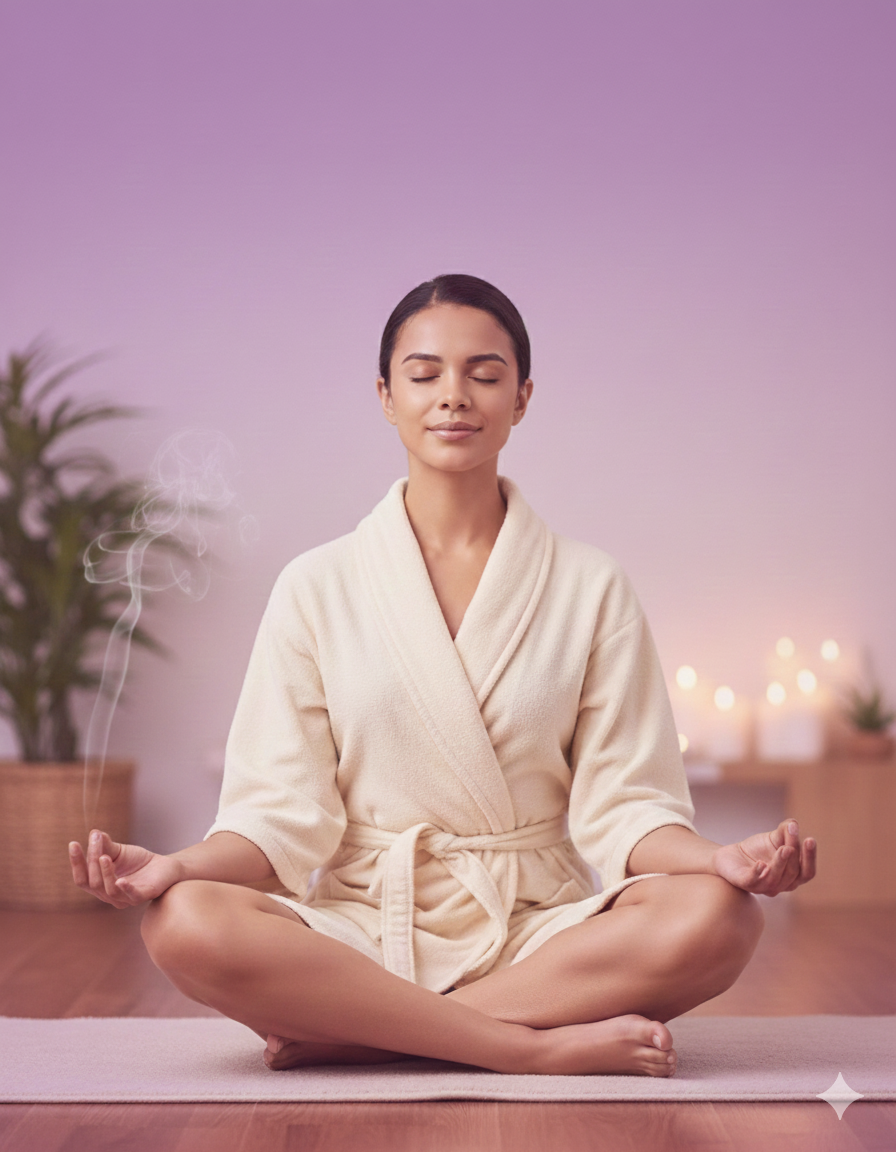
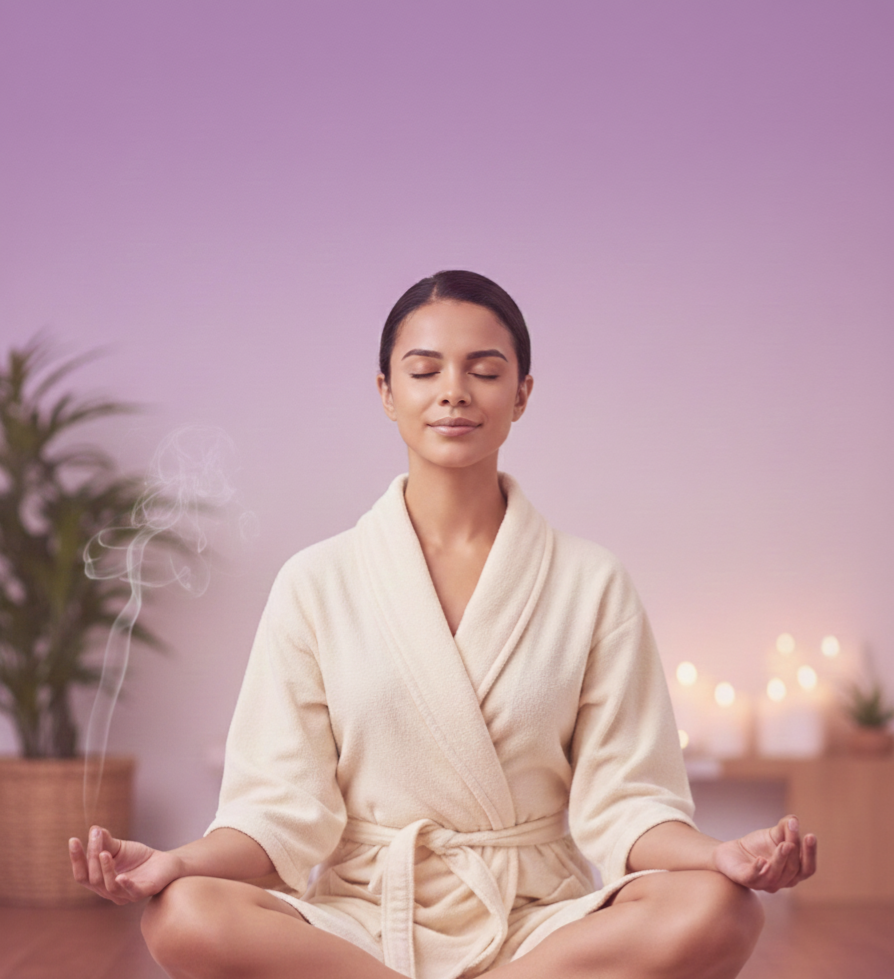
realizando modificaçoes e teste final. resolvendo erro de alteração de senha, adiccionando nova imagem da proprietária

diff --git a/public/sw.js b/public/sw.js
@@ -1,1 +1,1 @@
-if(!self.define){let e,a={};const s=(s,i)=>(s=new URL(s+".js",i).href,a[s]||new Promise(a=>{if("document"in self){const e=document.createElement("script");e.src=s,e.onload=a,document.head.appendChild(e)}else e=s,importScripts(s),a()}).then(()=>{let e=a[s];if(!e)throw new Error(`Module ${s} didn’t register its module`);return e}));self.define=(i,t)=>{const n=e||("document"in self?document.currentScript.src:"")||location.href;if(a[n])return;let c={};const d=e=>s(e,n),r={module:{uri:n},exports:c,require:d};a[n]=Promise.all(i.map(e=>r[e]||d(e))).then(e=>(t(...e),c))}}define(["./workbox-4754cb34"],function(e){"use strict";importScripts(),self.skipWaiting(),e.clientsClaim(),e.precacheAndRoute([{url:"/_next/app-build-manifest.json",revision:"c13a197ccf5857f193eedd27bf911507"},{url:"/_next/static/MhCtH397zzlHBhpDAOXh4/_buildManifest.js",revision:"159272cd806ed443be8412ca40dc91de"},{url:"/_next/static/MhCtH397zzlHBhpDAOXh4/_ssgManifest.js",revision:"b6652df95db52feb4daf4eca35380933"},{url:"/_next/static/chunks/1255-5e80850ee659f6b0.js",revision:"5e80850ee659f6b0"},{url:"/_next/static/chunks/1356-55692d5ef6a323df.js",revision:"55692d5ef6a323df"},{url:"/_next/static/chunks/1646.a93085a0445ba909.js",revision:"a93085a0445ba909"},{url:"/_next/static/chunks/164f4fb6-f06509109bcf80d7.js",revision:"f06509109bcf80d7"},{url:"/_next/static/chunks/2619-04bc32f026a0d946.js",revision:"04bc32f026a0d946"},{url:"/_next/static/chunks/2931.ddde249eba11921d.js",revision:"ddde249eba11921d"},{url:"/_next/static/chunks/2f0b94e8-3186a98eb4c9012b.js",revision:"3186a98eb4c9012b"},{url:"/_next/static/chunks/3933-f5cd1a4f4d45b01a.js",revision:"f5cd1a4f4d45b01a"},{url:"/_next/static/chunks/4008-d6845ab2310007a2.js",revision:"d6845ab2310007a2"},{url:"/_next/static/chunks/4164-0ea4f2df0853c649.js",revision:"0ea4f2df0853c649"},{url:"/_next/static/chunks/4199.52b11f53afb6f733.js",revision:"52b11f53afb6f733"},{url:"/_next/static/chunks/4778-2ff1b30635d23aa2.js",revision:"2ff1b30635d23aa2"},{url:"/_next/static/chunks/4bd1b696-100b9d70ed4e49c1.js",revision:"100b9d70ed4e49c1"},{url:"/_next/static/chunks/5139.e4ff9cc3669129ed.js",revision:"e4ff9cc3669129ed"},{url:"/_next/static/chunks/522-2844e397056035eb.js",revision:"2844e397056035eb"},{url:"/_next/static/chunks/5360-554a84ff6188211c.js",revision:"554a84ff6188211c"},{url:"/_next/static/chunks/9672-399714c442f524b8.js",revision:"399714c442f524b8"},{url:"/_next/static/chunks/9903-9d14534ac9c95544.js",revision:"9d14534ac9c95544"},{url:"/_next/static/chunks/ad2866b8.e13a3cf75ccf0eb8.js",revision:"e13a3cf75ccf0eb8"},{url:"/_next/static/chunks/app/_not-found/page-c4847d5ba2a4f439.js",revision:"c4847d5ba2a4f439"},{url:"/_next/static/chunks/app/admin/availability/page-25e5570bae1fbf79.js",revision:"25e5570bae1fbf79"},{url:"/_next/static/chunks/app/admin/change-password/page-57dbf8209994de9c.js",revision:"57dbf8209994de9c"},{url:"/_next/static/chunks/app/admin/edit/%5Bid%5D/page-2002ceb5a48b53da.js",revision:"2002ceb5a48b53da"},{url:"/_next/static/chunks/app/admin/layout-099b3ede990bbeaa.js",revision:"099b3ede990bbeaa"},{url:"/_next/static/chunks/app/admin/page-8adc74f0ad276006.js",revision:"8adc74f0ad276006"},{url:"/_next/static/chunks/app/admin/services/%5Bid%5D/edit/page-da9c6d8467f4b3c3.js",revision:"da9c6d8467f4b3c3"},{url:"/_next/static/chunks/app/admin/services/new/page-dab23e2805a178d0.js",revision:"dab23e2805a178d0"},{url:"/_next/static/chunks/app/admin/services/page-b04aa6ea83d60e29.js",revision:"b04aa6ea83d60e29"},{url:"/_next/static/chunks/app/admin/settings/page-8e8f0d70f796cb6b.js",revision:"8e8f0d70f796cb6b"},{url:"/_next/static/chunks/app/admin/testimonials/page-acbc24e09d3f1af7.js",revision:"acbc24e09d3f1af7"},{url:"/_next/static/chunks/app/api/auth/change-password/route-ad076aa6d1b53f82.js",revision:"ad076aa6d1b53f82"},{url:"/_next/static/chunks/app/api/auth/login/route-ad076aa6d1b53f82.js",revision:"ad076aa6d1b53f82"},{url:"/_next/static/chunks/app/api/auth/logout/route-ad076aa6d1b53f82.js",revision:"ad076aa6d1b53f82"},{url:"/_next/static/chunks/app/api/auth/me/route-ad076aa6d1b53f82.js",revision:"ad076aa6d1b53f82"},{url:"/_next/static/chunks/app/api/availability-times/route-ad076aa6d1b53f82.js",revision:"ad076aa6d1b53f82"},{url:"/_next/static/chunks/app/api/availability/route-ad076aa6d1b53f82.js",revision:"ad076aa6d1b53f82"},{url:"/_next/static/chunks/app/api/bookings/%5Bid%5D/status/route-ad076aa6d1b53f82.js",revision:"ad076aa6d1b53f82"},{url:"/_next/static/chunks/app/api/bookings/counts/route-ad076aa6d1b53f82.js",revision:"ad076aa6d1b53f82"},{url:"/_next/static/chunks/app/api/bookings/route-ad076aa6d1b53f82.js",revision:"ad076aa6d1b53f82"},{url:"/_next/static/chunks/app/api/change-password/route-ad076aa6d1b53f82.js",revision:"ad076aa6d1b53f82"},{url:"/_next/static/chunks/app/api/feedback/route-ad076aa6d1b53f82.js",revision:"ad076aa6d1b53f82"},{url:"/_next/static/chunks/app/api/services/%5Bid%5D/restore/route-ad076aa6d1b53f82.js",revision:"ad076aa6d1b53f82"},{url:"/_next/static/chunks/app/api/services/%5Bid%5D/route-ad076aa6d1b53f82.js",revision:"ad076aa6d1b53f82"},{url:"/_next/static/chunks/app/api/services/deleted/route-ad076aa6d1b53f82.js",revision:"ad076aa6d1b53f82"},{url:"/_next/static/chunks/app/api/services/route-ad076aa6d1b53f82.js",revision:"ad076aa6d1b53f82"},{url:"/_next/static/chunks/app/api/settings/route-ad076aa6d1b53f82.js",revision:"ad076aa6d1b53f82"},{url:"/_next/static/chunks/app/api/testimonials/%5Bid%5D/route-ad076aa6d1b53f82.js",revision:"ad076aa6d1b53f82"},{url:"/_next/static/chunks/app/api/testimonials/admin/%5Bid%5D/approve/route-ad076aa6d1b53f82.js",revision:"ad076aa6d1b53f82"},{url:"/_next/static/chunks/app/api/testimonials/admin/%5Bid%5D/delete/route-ad076aa6d1b53f82.js",revision:"ad076aa6d1b53f82"},{url:"/_next/static/chunks/app/api/testimonials/admin/route-ad076aa6d1b53f82.js",revision:"ad076aa6d1b53f82"},{url:"/_next/static/chunks/app/api/testimonials/approve/%5Bid%5D/route-ad076aa6d1b53f82.js",revision:"ad076aa6d1b53f82"},{url:"/_next/static/chunks/app/api/testimonials/client/route-ad076aa6d1b53f82.js",revision:"ad076aa6d1b53f82"},{url:"/_next/static/chunks/app/api/testimonials/delete/%5Bid%5D/route-ad076aa6d1b53f82.js",revision:"ad076aa6d1b53f82"},{url:"/_next/static/chunks/app/api/testimonials/route-ad076aa6d1b53f82.js",revision:"ad076aa6d1b53f82"},{url:"/_next/static/chunks/app/book/page-a33549a435e036d8.js",revision:"a33549a435e036d8"},{url:"/_next/static/chunks/app/layout-4a8dff59ccafbb38.js",revision:"4a8dff59ccafbb38"},{url:"/_next/static/chunks/app/loading-5b342cfccde92f5f.js",revision:"5b342cfccde92f5f"},{url:"/_next/static/chunks/app/login/page-f9e280b1574054a3.js",revision:"f9e280b1574054a3"},{url:"/_next/static/chunks/app/page-c9bd2a67401941e7.js",revision:"c9bd2a67401941e7"},{url:"/_next/static/chunks/bc98253f.d6fc8a0138855acd.js",revision:"d6fc8a0138855acd"},{url:"/_next/static/chunks/framework-32492dd9c4fc5870.js",revision:"32492dd9c4fc5870"},{url:"/_next/static/chunks/main-5faed92e09951081.js",revision:"5faed92e09951081"},{url:"/_next/static/chunks/main-app-ac763f0b3bf9b967.js",revision:"ac763f0b3bf9b967"},{url:"/_next/static/chunks/pages/_app-e8b861c87f6f033c.js",revision:"e8b861c87f6f033c"},{url:"/_next/static/chunks/pages/_error-c8f84f7bd11d43d4.js",revision:"c8f84f7bd11d43d4"},{url:"/_next/static/chunks/polyfills-42372ed130431b0a.js",revision:"846118c33b2c0e922d7b3a7676f81f6f"},{url:"/_next/static/chunks/webpack-ec748dc7ebd57297.js",revision:"ec748dc7ebd57297"},{url:"/_next/static/css/7057b35d5a95711c.css",revision:"7057b35d5a95711c"},{url:"/_next/static/css/969afbfddcdb3e8d.css",revision:"969afbfddcdb3e8d"},{url:"/_next/static/media/7b0b24f36b1a6d0b-s.p.woff2",revision:"98ccc2b7f18991a5126a91ac56fbb1fc"},{url:"/_next/static/media/96ad956ad403f1f4-s.woff2",revision:"99e350a8fab2f9617e9d87b92fdc0feb"},{url:"/_next/static/media/98848575513c9742-s.woff2",revision:"e2b64ddcb351dbe7397e0da426a8c8d6"},{url:"/_next/static/media/d2994fae620620ce-s.woff2",revision:"df52ed7fba6249327048e56c2014e179"},{url:"/_next/static/media/d5a081ee1692b14e-s.p.woff2",revision:"3dcc58561560977950005014d082f161"},{url:"/borboleta.png",revision:"f430776b497180091d8ca8fcd94e84ea"},{url:"/file.svg",revision:"d09f95206c3fa0bb9bd9fefabfd0ea71"},{url:"/foto1.jpeg",revision:"af78ab116ddeaaba292a8c3f2085e04f"},{url:"/foto2.jpeg",revision:"95cd157fde51442249972f2c1b0daf97"},{url:"/foto3.jpeg",revision:"2490a3282e8d3943402611054960fa48"},{url:"/foto4.jpeg",revision:"c284401d47f6a986c2e9b7838ec21419"},{url:"/globe.svg",revision:"2aaafa6a49b6563925fe440891e32717"},{url:"/icon-192.png",revision:"0eca19238d64e1a3b2b80f87f94fc741"},{url:"/icon-512.png",revision:"06863cabe4c5e464b7b875a250c5071e"},{url:"/img1.png",revision:"e636a8a6ed0dd1d20a1fc53d2edd655e"},{url:"/img2.png",revision:"607f79817377630f550168d3cac2fe40"},{url:"/img3.png",revision:"c8bf36c801e1dd388c58c973a6ac4492"},{url:"/logo-balsamo.png",revision:"69d1263097d4bff305f64cd87c80d9e4"},{url:"/manifest.json",revision:"23a52be9cc13d3b21804864b1fb26ae9"},{url:"/next.svg",revision:"8e061864f388b47f33a1c3780831193e"},{url:"/proprietaria.jpg",revision:"eec1ea9744981deaae5737924ebcb758"},{url:"/proprietaria2.jpg",revision:"649260f5ed9a66f7d53351edbb71443f"},{url:"/service-worker-disabled.js",revision:"417d11533157a4fdf8e042d07270220c"},{url:"/vercel.svg",revision:"c0af2f507b369b085b35ef4bbe3bcf1e"},{url:"/video1.mp4",revision:"eacaf5db507edff27e15f20652687f1d"},{url:"/video2.mp4",revision:"8699624ffdfc8d7d764fabd83e0230f8"},{url:"/video3.mp4",revision:"51239660f98a64fca7303838a71585b6"},{url:"/window.svg",revision:"a2760511c65806022ad20adf74370ff3"}],{ignoreURLParametersMatching:[]}),e.cleanupOutdatedCaches(),e.registerRoute("/",new e.NetworkFirst({cacheName:"start-url",plugins:[{cacheWillUpdate:async({request:e,response:a,event:s,state:i})=>a&&"opaqueredirect"===a.type?new Response(a.body,{status:200,statusText:"OK",headers:a.headers}):a}]}),"GET"),e.registerRoute(/^https:\/\/fonts\.(?:gstatic)\.com\/.*/i,new e.CacheFirst({cacheName:"google-fonts-webfonts",plugins:[new e.ExpirationPlugin({maxEntries:4,maxAgeSeconds:31536e3})]}),"GET"),e.registerRoute(/^https:\/\/fonts\.(?:googleapis)\.com\/.*/i,new e.StaleWhileRevalidate({cacheName:"google-fonts-stylesheets",plugins:[new e.ExpirationPlugin({maxEntries:4,maxAgeSeconds:604800})]}),"GET"),e.registerRoute(/\.(?:eot|otf|ttc|ttf|woff|woff2|font.css)$/i,new e.StaleWhileRevalidate({cacheName:"static-font-assets",plugins:[new e.ExpirationPlugin({maxEntries:4,maxAgeSeconds:604800})]}),"GET"),e.registerRoute(/\.(?:jpg|jpeg|gif|png|svg|ico|webp)$/i,new e.StaleWhileRevalidate({cacheName:"static-image-assets",plugins:[new e.ExpirationPlugin({maxEntries:64,maxAgeSeconds:86400})]}),"GET"),e.registerRoute(/\/_next\/image\?url=.+$/i,new e.StaleWhileRevalidate({cacheName:"next-image",plugins:[new e.ExpirationPlugin({maxEntries:64,maxAgeSeconds:86400})]}),"GET"),e.registerRoute(/\.(?:mp3|wav|ogg)$/i,new e.CacheFirst({cacheName:"static-audio-assets",plugins:[new e.RangeRequestsPlugin,new e.ExpirationPlugin({maxEntries:32,maxAgeSeconds:86400})]}),"GET"),e.registerRoute(/\.(?:mp4)$/i,new e.CacheFirst({cacheName:"static-video-assets",plugins:[new e.RangeRequestsPlugin,new e.ExpirationPlugin({maxEntries:32,maxAgeSeconds:86400})]}),"GET"),e.registerRoute(/\.(?:js)$/i,new e.StaleWhileRevalidate({cacheName:"static-js-assets",plugins:[new e.ExpirationPlugin({maxEntries:32,maxAgeSeconds:86400})]}),"GET"),e.registerRoute(/\.(?:css|less)$/i,new e.StaleWhileRevalidate({cacheName:"static-style-assets",plugins:[new e.ExpirationPlugin({maxEntries:32,maxAgeSeconds:86400})]}),"GET"),e.registerRoute(/\/_next\/data\/.+\/.+\.json$/i,new e.StaleWhileRevalidate({cacheName:"next-data",plugins:[new e.ExpirationPlugin({maxEntries:32,maxAgeSeconds:86400})]}),"GET"),e.registerRoute(/\.(?:json|xml|csv)$/i,new e.NetworkFirst({cacheName:"static-data-assets",plugins:[new e.ExpirationPlugin({maxEntries:32,maxAgeSeconds:86400})]}),"GET"),e.registerRoute(({url:e})=>{if(!(self.origin===e.origin))return!1;const a=e.pathname;return!a.startsWith("/api/auth/")&&!!a.startsWith("/api/")},new e.NetworkFirst({cacheName:"apis",networkTimeoutSeconds:10,plugins:[new e.ExpirationPlugin({maxEntries:16,maxAgeSeconds:86400})]}),"GET"),e.registerRoute(({url:e})=>{if(!(self.origin===e.origin))return!1;return!e.pathname.startsWith("/api/")},new e.NetworkFirst({cacheName:"others",networkTimeoutSeconds:10,plugins:[new e.ExpirationPlugin({maxEntries:32,maxAgeSeconds:86400})]}),"GET"),e.registerRoute(({url:e})=>!(self.origin===e.origin),new e.NetworkFirst({cacheName:"cross-origin",networkTimeoutSeconds:10,plugins:[new e.ExpirationPlugin({maxEntries:32,maxAgeSeconds:3600})]}),"GET")});
+if(!self.define){let e,s={};const a=(a,i)=>(a=new URL(a+".js",i).href,s[a]||new Promise(s=>{if("document"in self){const e=document.createElement("script");e.src=a,e.onload=s,document.head.appendChild(e)}else e=a,importScripts(a),s()}).then(()=>{let e=s[a];if(!e)throw new Error(`Module ${a} didn’t register its module`);return e}));self.define=(i,n)=>{const t=e||("document"in self?document.currentScript.src:"")||location.href;if(s[t])return;let c={};const f=e=>a(e,t),r={module:{uri:t},exports:c,require:f};s[t]=Promise.all(i.map(e=>r[e]||f(e))).then(e=>(n(...e),c))}}define(["./workbox-4754cb34"],function(e){"use strict";importScripts(),self.skipWaiting(),e.clientsClaim(),e.precacheAndRoute([{url:"/_next/app-build-manifest.json",revision:"2b09b3ab8b08b62286f05246032e7529"},{url:"/_next/static/chunks/1255-5e80850ee659f6b0.js",revision:"5e80850ee659f6b0"},{url:"/_next/static/chunks/1356-55692d5ef6a323df.js",revision:"55692d5ef6a323df"},{url:"/_next/static/chunks/1646.a93085a0445ba909.js",revision:"a93085a0445ba909"},{url:"/_next/static/chunks/164f4fb6-f06509109bcf80d7.js",revision:"f06509109bcf80d7"},{url:"/_next/static/chunks/2619-04bc32f026a0d946.js",revision:"04bc32f026a0d946"},{url:"/_next/static/chunks/2931.ddde249eba11921d.js",revision:"ddde249eba11921d"},{url:"/_next/static/chunks/2966-7ff7d47905257a57.js",revision:"7ff7d47905257a57"},{url:"/_next/static/chunks/2f0b94e8-3186a98eb4c9012b.js",revision:"3186a98eb4c9012b"},{url:"/_next/static/chunks/3013-485a594676a27681.js",revision:"485a594676a27681"},{url:"/_next/static/chunks/3349-fa67f4cce9a70888.js",revision:"fa67f4cce9a70888"},{url:"/_next/static/chunks/3596-571bf2e036680545.js",revision:"571bf2e036680545"},{url:"/_next/static/chunks/3955-a81eae04e5539803.js",revision:"a81eae04e5539803"},{url:"/_next/static/chunks/4164-0ea4f2df0853c649.js",revision:"0ea4f2df0853c649"},{url:"/_next/static/chunks/4199.52b11f53afb6f733.js",revision:"52b11f53afb6f733"},{url:"/_next/static/chunks/4bd1b696-100b9d70ed4e49c1.js",revision:"100b9d70ed4e49c1"},{url:"/_next/static/chunks/5139.e4ff9cc3669129ed.js",revision:"e4ff9cc3669129ed"},{url:"/_next/static/chunks/5326-a85bed830b406494.js",revision:"a85bed830b406494"},{url:"/_next/static/chunks/6045-630ed5d85af8d7e0.js",revision:"630ed5d85af8d7e0"},{url:"/_next/static/chunks/7198-d6fccf740b7e3a83.js",revision:"d6fccf740b7e3a83"},{url:"/_next/static/chunks/8805-7e6b53be08fc9e0a.js",revision:"7e6b53be08fc9e0a"},{url:"/_next/static/chunks/8901-e28a892d1abf1fc1.js",revision:"e28a892d1abf1fc1"},{url:"/_next/static/chunks/ad2866b8.e13a3cf75ccf0eb8.js",revision:"e13a3cf75ccf0eb8"},{url:"/_next/static/chunks/app/_not-found/page-858673ea14c8364b.js",revision:"858673ea14c8364b"},{url:"/_next/static/chunks/app/admin/availability/page-68b6145870e32919.js",revision:"68b6145870e32919"},{url:"/_next/static/chunks/app/admin/change-password/page-633eb9e3e90e90e2.js",revision:"633eb9e3e90e90e2"},{url:"/_next/static/chunks/app/admin/edit/%5Bid%5D/page-e20c8fb46eec354f.js",revision:"e20c8fb46eec354f"},{url:"/_next/static/chunks/app/admin/layout-09f5b4b566964ce5.js",revision:"09f5b4b566964ce5"},{url:"/_next/static/chunks/app/admin/page-78f5a8c3e941ecea.js",revision:"78f5a8c3e941ecea"},{url:"/_next/static/chunks/app/admin/reports/page-9cb714f51226ef14.js",revision:"9cb714f51226ef14"},{url:"/_next/static/chunks/app/admin/services/%5Bid%5D/edit/page-73265d8312d6a3c2.js",revision:"73265d8312d6a3c2"},{url:"/_next/static/chunks/app/admin/services/new/page-7af7f8ddff58c515.js",revision:"7af7f8ddff58c515"},{url:"/_next/static/chunks/app/admin/services/page-4807c950f2bbf68b.js",revision:"4807c950f2bbf68b"},{url:"/_next/static/chunks/app/admin/settings/page-44c4a25138967adf.js",revision:"44c4a25138967adf"},{url:"/_next/static/chunks/app/admin/testimonials/page-a31a59fbf9b755e7.js",revision:"a31a59fbf9b755e7"},{url:"/_next/static/chunks/app/api/auth/change-password/route-be7d0825b7a0f15f.js",revision:"be7d0825b7a0f15f"},{url:"/_next/static/chunks/app/api/auth/login/route-be7d0825b7a0f15f.js",revision:"be7d0825b7a0f15f"},{url:"/_next/static/chunks/app/api/auth/logout/route-be7d0825b7a0f15f.js",revision:"be7d0825b7a0f15f"},{url:"/_next/static/chunks/app/api/auth/me/route-be7d0825b7a0f15f.js",revision:"be7d0825b7a0f15f"},{url:"/_next/static/chunks/app/api/availability-times/route-be7d0825b7a0f15f.js",revision:"be7d0825b7a0f15f"},{url:"/_next/static/chunks/app/api/availability/route-be7d0825b7a0f15f.js",revision:"be7d0825b7a0f15f"},{url:"/_next/static/chunks/app/api/bookings/%5Bid%5D/route-be7d0825b7a0f15f.js",revision:"be7d0825b7a0f15f"},{url:"/_next/static/chunks/app/api/bookings/%5Bid%5D/status/route-be7d0825b7a0f15f.js",revision:"be7d0825b7a0f15f"},{url:"/_next/static/chunks/app/api/bookings/counts/route-be7d0825b7a0f15f.js",revision:"be7d0825b7a0f15f"},{url:"/_next/static/chunks/app/api/bookings/route-be7d0825b7a0f15f.js",revision:"be7d0825b7a0f15f"},{url:"/_next/static/chunks/app/api/change-password/route-be7d0825b7a0f15f.js",revision:"be7d0825b7a0f15f"},{url:"/_next/static/chunks/app/api/feedback/route-be7d0825b7a0f15f.js",revision:"be7d0825b7a0f15f"},{url:"/_next/static/chunks/app/api/reports/route-be7d0825b7a0f15f.js",revision:"be7d0825b7a0f15f"},{url:"/_next/static/chunks/app/api/services/%5Bid%5D/restore/route-be7d0825b7a0f15f.js",revision:"be7d0825b7a0f15f"},{url:"/_next/static/chunks/app/api/services/%5Bid%5D/route-be7d0825b7a0f15f.js",revision:"be7d0825b7a0f15f"},{url:"/_next/static/chunks/app/api/services/deleted/route-be7d0825b7a0f15f.js",revision:"be7d0825b7a0f15f"},{url:"/_next/static/chunks/app/api/services/route-be7d0825b7a0f15f.js",revision:"be7d0825b7a0f15f"},{url:"/_next/static/chunks/app/api/settings/route-be7d0825b7a0f15f.js",revision:"be7d0825b7a0f15f"},{url:"/_next/static/chunks/app/api/testimonials/%5Bid%5D/route-be7d0825b7a0f15f.js",revision:"be7d0825b7a0f15f"},{url:"/_next/static/chunks/app/api/testimonials/admin/%5Bid%5D/approve/route-be7d0825b7a0f15f.js",revision:"be7d0825b7a0f15f"},{url:"/_next/static/chunks/app/api/testimonials/admin/%5Bid%5D/delete/route-be7d0825b7a0f15f.js",revision:"be7d0825b7a0f15f"},{url:"/_next/static/chunks/app/api/testimonials/admin/route-be7d0825b7a0f15f.js",revision:"be7d0825b7a0f15f"},{url:"/_next/static/chunks/app/api/testimonials/approve/%5Bid%5D/route-be7d0825b7a0f15f.js",revision:"be7d0825b7a0f15f"},{url:"/_next/static/chunks/app/api/testimonials/client/route-be7d0825b7a0f15f.js",revision:"be7d0825b7a0f15f"},{url:"/_next/static/chunks/app/api/testimonials/delete/%5Bid%5D/route-be7d0825b7a0f15f.js",revision:"be7d0825b7a0f15f"},{url:"/_next/static/chunks/app/api/testimonials/route-be7d0825b7a0f15f.js",revision:"be7d0825b7a0f15f"},{url:"/_next/static/chunks/app/book/page-da05587363794a14.js",revision:"da05587363794a14"},{url:"/_next/static/chunks/app/layout-1448b112ebea3d40.js",revision:"1448b112ebea3d40"},{url:"/_next/static/chunks/app/loading-1e9f81dee6f77a44.js",revision:"1e9f81dee6f77a44"},{url:"/_next/static/chunks/app/login/page-2663e17a49248301.js",revision:"2663e17a49248301"},{url:"/_next/static/chunks/app/page-b6e64bf7dda218b7.js",revision:"b6e64bf7dda218b7"},{url:"/_next/static/chunks/bc98253f.d6fc8a0138855acd.js",revision:"d6fc8a0138855acd"},{url:"/_next/static/chunks/framework-32492dd9c4fc5870.js",revision:"32492dd9c4fc5870"},{url:"/_next/static/chunks/main-5faed92e09951081.js",revision:"5faed92e09951081"},{url:"/_next/static/chunks/main-app-6e8135bc63bbe69c.js",revision:"6e8135bc63bbe69c"},{url:"/_next/static/chunks/pages/_app-e8b861c87f6f033c.js",revision:"e8b861c87f6f033c"},{url:"/_next/static/chunks/pages/_error-c8f84f7bd11d43d4.js",revision:"c8f84f7bd11d43d4"},{url:"/_next/static/chunks/polyfills-42372ed130431b0a.js",revision:"846118c33b2c0e922d7b3a7676f81f6f"},{url:"/_next/static/chunks/webpack-ec748dc7ebd57297.js",revision:"ec748dc7ebd57297"},{url:"/_next/static/css/7057b35d5a95711c.css",revision:"7057b35d5a95711c"},{url:"/_next/static/css/89736564810e1f30.css",revision:"89736564810e1f30"},{url:"/_next/static/media/7b0b24f36b1a6d0b-s.p.woff2",revision:"98ccc2b7f18991a5126a91ac56fbb1fc"},{url:"/_next/static/media/96ad956ad403f1f4-s.woff2",revision:"99e350a8fab2f9617e9d87b92fdc0feb"},{url:"/_next/static/media/98848575513c9742-s.woff2",revision:"e2b64ddcb351dbe7397e0da426a8c8d6"},{url:"/_next/static/media/d2994fae620620ce-s.woff2",revision:"df52ed7fba6249327048e56c2014e179"},{url:"/_next/static/media/d5a081ee1692b14e-s.p.woff2",revision:"3dcc58561560977950005014d082f161"},{url:"/_next/static/wSeopfKKFMi_h-IZV4oDS/_buildManifest.js",revision:"67d437e4b2834f033c462fa89b7d7e4a"},{url:"/_next/static/wSeopfKKFMi_h-IZV4oDS/_ssgManifest.js",revision:"b6652df95db52feb4daf4eca35380933"},{url:"/borboleta.png",revision:"f430776b497180091d8ca8fcd94e84ea"},{url:"/file.svg",revision:"d09f95206c3fa0bb9bd9fefabfd0ea71"},{url:"/flor.png",revision:"7147f352bdfd4debf26e1dae027b5e8e"},{url:"/foto1.jpeg",revision:"af78ab116ddeaaba292a8c3f2085e04f"},{url:"/foto2.jpeg",revision:"95cd157fde51442249972f2c1b0daf97"},{url:"/foto3.jpeg",revision:"2490a3282e8d3943402611054960fa48"},{url:"/foto4.jpeg",revision:"c284401d47f6a986c2e9b7838ec21419"},{url:"/globe.svg",revision:"2aaafa6a49b6563925fe440891e32717"},{url:"/header.png",revision:"c8a4e473670d8ed7372f68c596e2c168"},{url:"/icon-192.png",revision:"0eca19238d64e1a3b2b80f87f94fc741"},{url:"/icon-512.png",revision:"06863cabe4c5e464b7b875a250c5071e"},{url:"/img01.jpg",revision:"4931f561b472d9b50dd2740ce25827b5"},{url:"/img02.jpg",revision:"098291a3b34226fba2bf70196d7dddad"},{url:"/img03.jpg",revision:"659387584e3f696957d144e39a40444b"},{url:"/img04.jpg",revision:"9721e17d0b2634fa4031ddb7feef6187"},{url:"/img05.jpg",revision:"22f96c6610067685ace0d7996646decd"},{url:"/img06.jpg",revision:"696a2e631056c3c10feb9c9ec0250947"},{url:"/img1.png",revision:"e636a8a6ed0dd1d20a1fc53d2edd655e"},{url:"/img2.png",revision:"607f79817377630f550168d3cac2fe40"},{url:"/img22.png",revision:"cb4a2bbcd30c82da2ebfa4013bee17cd"},{url:"/img3.png",revision:"c8bf36c801e1dd388c58c973a6ac4492"},{url:"/logo-balsamo.png",revision:"69d1263097d4bff305f64cd87c80d9e4"},{url:"/logo-balsamo2.png",revision:"c96fb64ddd6de7f2db6e9318b16e8537"},{url:"/logo-borboleta.png",revision:"81b8537ac2acc15d3b18c0af579116c7"},{url:"/logovertical.png",revision:"e5b0329dd6ff4a43a4ea84f5af5378e0"},{url:"/manifest.json",revision:"23a52be9cc13d3b21804864b1fb26ae9"},{url:"/next.svg",revision:"8e061864f388b47f33a1c3780831193e"},{url:"/proprietaria.jpg",revision:"eec1ea9744981deaae5737924ebcb758"},{url:"/proprietaria2.jpg",revision:"649260f5ed9a66f7d53351edbb71443f"},{url:"/service-worker-disabled.js",revision:"417d11533157a4fdf8e042d07270220c"},{url:"/vercel.svg",revision:"c0af2f507b369b085b35ef4bbe3bcf1e"},{url:"/video1.mp4",revision:"eacaf5db507edff27e15f20652687f1d"},{url:"/video2.mp4",revision:"8699624ffdfc8d7d764fabd83e0230f8"},{url:"/video3.mp4",revision:"51239660f98a64fca7303838a71585b6"},{url:"/window.svg",revision:"a2760511c65806022ad20adf74370ff3"}],{ignoreURLParametersMatching:[]}),e.cleanupOutdatedCaches(),e.registerRoute("/",new e.NetworkFirst({cacheName:"start-url",plugins:[{cacheWillUpdate:async({request:e,response:s,event:a,state:i})=>s&&"opaqueredirect"===s.type?new Response(s.body,{status:200,statusText:"OK",headers:s.headers}):s}]}),"GET"),e.registerRoute(/^https:\/\/fonts\.(?:gstatic)\.com\/.*/i,new e.CacheFirst({cacheName:"google-fonts-webfonts",plugins:[new e.ExpirationPlugin({maxEntries:4,maxAgeSeconds:31536e3})]}),"GET"),e.registerRoute(/^https:\/\/fonts\.(?:googleapis)\.com\/.*/i,new e.StaleWhileRevalidate({cacheName:"google-fonts-stylesheets",plugins:[new e.ExpirationPlugin({maxEntries:4,maxAgeSeconds:604800})]}),"GET"),e.registerRoute(/\.(?:eot|otf|ttc|ttf|woff|woff2|font.css)$/i,new e.StaleWhileRevalidate({cacheName:"static-font-assets",plugins:[new e.ExpirationPlugin({maxEntries:4,maxAgeSeconds:604800})]}),"GET"),e.registerRoute(/\.(?:jpg|jpeg|gif|png|svg|ico|webp)$/i,new e.StaleWhileRevalidate({cacheName:"static-image-assets",plugins:[new e.ExpirationPlugin({maxEntries:64,maxAgeSeconds:86400})]}),"GET"),e.registerRoute(/\/_next\/image\?url=.+$/i,new e.StaleWhileRevalidate({cacheName:"next-image",plugins:[new e.ExpirationPlugin({maxEntries:64,maxAgeSeconds:86400})]}),"GET"),e.registerRoute(/\.(?:mp3|wav|ogg)$/i,new e.CacheFirst({cacheName:"static-audio-assets",plugins:[new e.RangeRequestsPlugin,new e.ExpirationPlugin({maxEntries:32,maxAgeSeconds:86400})]}),"GET"),e.registerRoute(/\.(?:mp4)$/i,new e.CacheFirst({cacheName:"static-video-assets",plugins:[new e.RangeRequestsPlugin,new e.ExpirationPlugin({maxEntries:32,maxAgeSeconds:86400})]}),"GET"),e.registerRoute(/\.(?:js)$/i,new e.StaleWhileRevalidate({cacheName:"static-js-assets",plugins:[new e.ExpirationPlugin({maxEntries:32,maxAgeSeconds:86400})]}),"GET"),e.registerRoute(/\.(?:css|less)$/i,new e.StaleWhileRevalidate({cacheName:"static-style-assets",plugins:[new e.ExpirationPlugin({maxEntries:32,maxAgeSeconds:86400})]}),"GET"),e.registerRoute(/\/_next\/data\/.+\/.+\.json$/i,new e.StaleWhileRevalidate({cacheName:"next-data",plugins:[new e.ExpirationPlugin({maxEntries:32,maxAgeSeconds:86400})]}),"GET"),e.registerRoute(/\.(?:json|xml|csv)$/i,new e.NetworkFirst({cacheName:"static-data-assets",plugins:[new e.ExpirationPlugin({maxEntries:32,maxAgeSeconds:86400})]}),"GET"),e.registerRoute(({url:e})=>{if(!(self.origin===e.origin))return!1;const s=e.pathname;return!s.startsWith("/api/auth/")&&!!s.startsWith("/api/")},new e.NetworkFirst({cacheName:"apis",networkTimeoutSeconds:10,plugins:[new e.ExpirationPlugin({maxEntries:16,maxAgeSeconds:86400})]}),"GET"),e.registerRoute(({url:e})=>{if(!(self.origin===e.origin))return!1;return!e.pathname.startsWith("/api/")},new e.NetworkFirst({cacheName:"others",networkTimeoutSeconds:10,plugins:[new e.ExpirationPlugin({maxEntries:32,maxAgeSeconds:86400})]}),"GET"),e.registerRoute(({url:e})=>!(self.origin===e.origin),new e.NetworkFirst({cacheName:"cross-origin",networkTimeoutSeconds:10,plugins:[new e.ExpirationPlugin({maxEntries:32,maxAgeSeconds:3600})]}),"GET")});

diff --git a/app/page.tsx b/app/page.tsx
@@ -12,6 +12,7 @@ export default async function HomePage() {
   // ✅ Busca direta no banco
   const [servicesData, testimonialsData] = await Promise.all([
     prisma.service.findMany({
+      where: { active: true }, // filtro de ativos
       orderBy: { price: "asc" },
     }),
     prisma.testimonial.findMany({
@@ -210,7 +211,7 @@ export default async function HomePage() {
           <div className="grid grid-cols-1 sm:grid-cols-2 md:grid-cols-3 gap-10">
             {[
               { img: "/img1.png", title: "Relaxamento profundo", desc: "Reduz o estresse, acalma o corpo e melhora a qualidade do sono." },
-              { img: "/img22.png", title: "Equilíbrio mental", desc: "Ajuda na ansiedade, foco e sensação de bem-estar emocional." },
+              { img: "/img2.png", title: "Equilíbrio mental", desc: "Ajuda na ansiedade, foco e sensação de bem-estar emocional." },
               { img: "/img3.png", title: "Saúde do corpo", desc: "Melhora circulação, alivia dores e libera tensões acumuladas." }
             ].map((item, i) => (
               <div key={i} className="bg-[#F5F3EB]/90 rounded-2xl p-6 shadow-md border border-[#97709B]/20 text-center">
@@ -261,7 +262,7 @@ export default async function HomePage() {
                   </p>
 
                   {service.details && service.details.length > 0 && (
-                    <ul className="list-disc list-inside mt-3 text-sm text-[#083536] space-y-1">
+                    <ul className="list-disc list-outside pl-5 mt-3 text-sm text-[#083536] space-y-1">
                       {service.details.map((d, i) => (
                         <li key={i}>{d}</li>
                       ))}
@@ -308,7 +309,7 @@ export default async function HomePage() {
           <div className="grid grid-cols-1 md:grid-cols-3 gap-12 items-start animate-[fadeInUp_0.9s_ease-out]">
             <div className="flex justify-center md:justify-start">
               <div className="rounded-2xl overflow-hidden shadow-[0_8px_28px_-10px_rgba(141,106,147,0.25)] border border-[#97709B]/20 bg-[#F5F3EB]/70 w-[190px] h-[260px]">
-                <Image src="/proprietaria2.jpg" alt="Profissional" width={190} height={260} className="w-full h-full object-cover rounded-2xl" />
+                <Image src="/proprietaria3.png" alt="Profissional" width={190} height={260} className="w-full h-full object-cover rounded-2xl" />
               </div>
             </div>
             <div className="md:col-span-2">

diff --git a/app/admin/change-password/page.tsx b/app/admin/change-password/page.tsx
@@ -8,10 +8,12 @@ export default async function ChangePasswordPage() {
   await requireAdminAuth();
 
   return (
-    <main className="min-h-[80vh] flex flex-col items-center justify-center py-12 px-4">
-      <div className="w-full max-w-lg">
+    <main className="min-h-[80vh] flex flex-col items-center justify-center py-12 px-4 sm:px-6">
+      
+      {/* 👇 AQUI: Trocamos max-w-lg por max-w-2xl para alargar o limite do quadro */}
+      <div className="w-full max-w-2xl">
         
-        {/* Botão Voltar: Essencial para a experiência do Admin */}
+        {/* Botão Voltar */}
         <Link 
           href="/admin" 
           className="inline-flex items-center gap-2 text-sm font-medium text-[#083536]/60 hover:text-[#8D6A93] transition-colors mb-6 group"
@@ -24,10 +26,10 @@ export default async function ChangePasswordPage() {
         <div
           className="
             bg-white/80 backdrop-blur-md
-            rounded-3xl
+            rounded-[2.5rem] 
             shadow-[0_20px_50px_-15px_rgba(141,106,147,0.15)]
             border border-[#8D6A93]/15
-            p-8
+            p-6 sm:p-10 
             transition-all
           "
         >
@@ -40,11 +42,11 @@ export default async function ChangePasswordPage() {
               Alterar Senha
             </h1>
             <p className="text-sm text-[#97709B] mt-2">
-              Escolha uma senha forte para proteger seu acesso.
+              Escolha uma senha forte para proteger o seu acesso.
             </p>
           </div>
 
-          {/* O formulário com o "olhinho" e loading que refinamos */}
+          {/* O formulário com o "olhinho" e loading */}
           <ChangePasswordForm />
         </div>
 

diff --git a/app/api/auth/change-password/route.ts b/app/api/auth/change-password/route.ts
@@ -8,7 +8,7 @@ export async function POST(req: Request) {
   try {
     // 🔐 Pega o token do cookie de forma segura (sem parse manual)
     const cookieStore = await cookies();
-    const token = cookieStore.get("token")?.value;
+    const token = cookieStore.get("admin_token")?.value;
 
     if (!token) {
       return NextResponse.json({ error: "Não autorizado." }, { status: 401 });

diff --git a/app/components/AdminSidebar.tsx b/app/components/AdminSidebar.tsx
@@ -35,7 +35,7 @@ export default function AdminSidebar() {
       <div className="flex items-center gap-4 mb-10 px-2">
         <div className="relative">
           <Image
-            src="/logovertical.png"
+            src="/logo-balsamo2.png"
             width={48}
             height={48}
             alt="Logo Bálsamo"

diff --git a/app/admin/settings/SettingsClient.tsx b/app/admin/settings/SettingsClient.tsx
@@ -59,7 +59,7 @@ export default function SettingsClient() {
   }
 
   return (
-    <main className="max-w-xl mx-auto p-4 sm:p-8">
+    <main className="max-w-xl mx-auto p-1 sm:p-8">
       {/* Botão Voltar */}
       <Link 
         href="/admin" 

diff --git a/app/components/BalsamoVideoPlayer.tsx b/app/components/BalsamoVideoPlayer.tsx
@@ -10,7 +10,8 @@ const IMAGES = [
   "/img03.jpg",
   "/img04.jpg",
   "/img05.jpg",
-  "/img06.jpg",
+  "/img06.png",
+  "/img07.jpg",
 ];
 
 export default function BalsamoVideoPlayer() {
